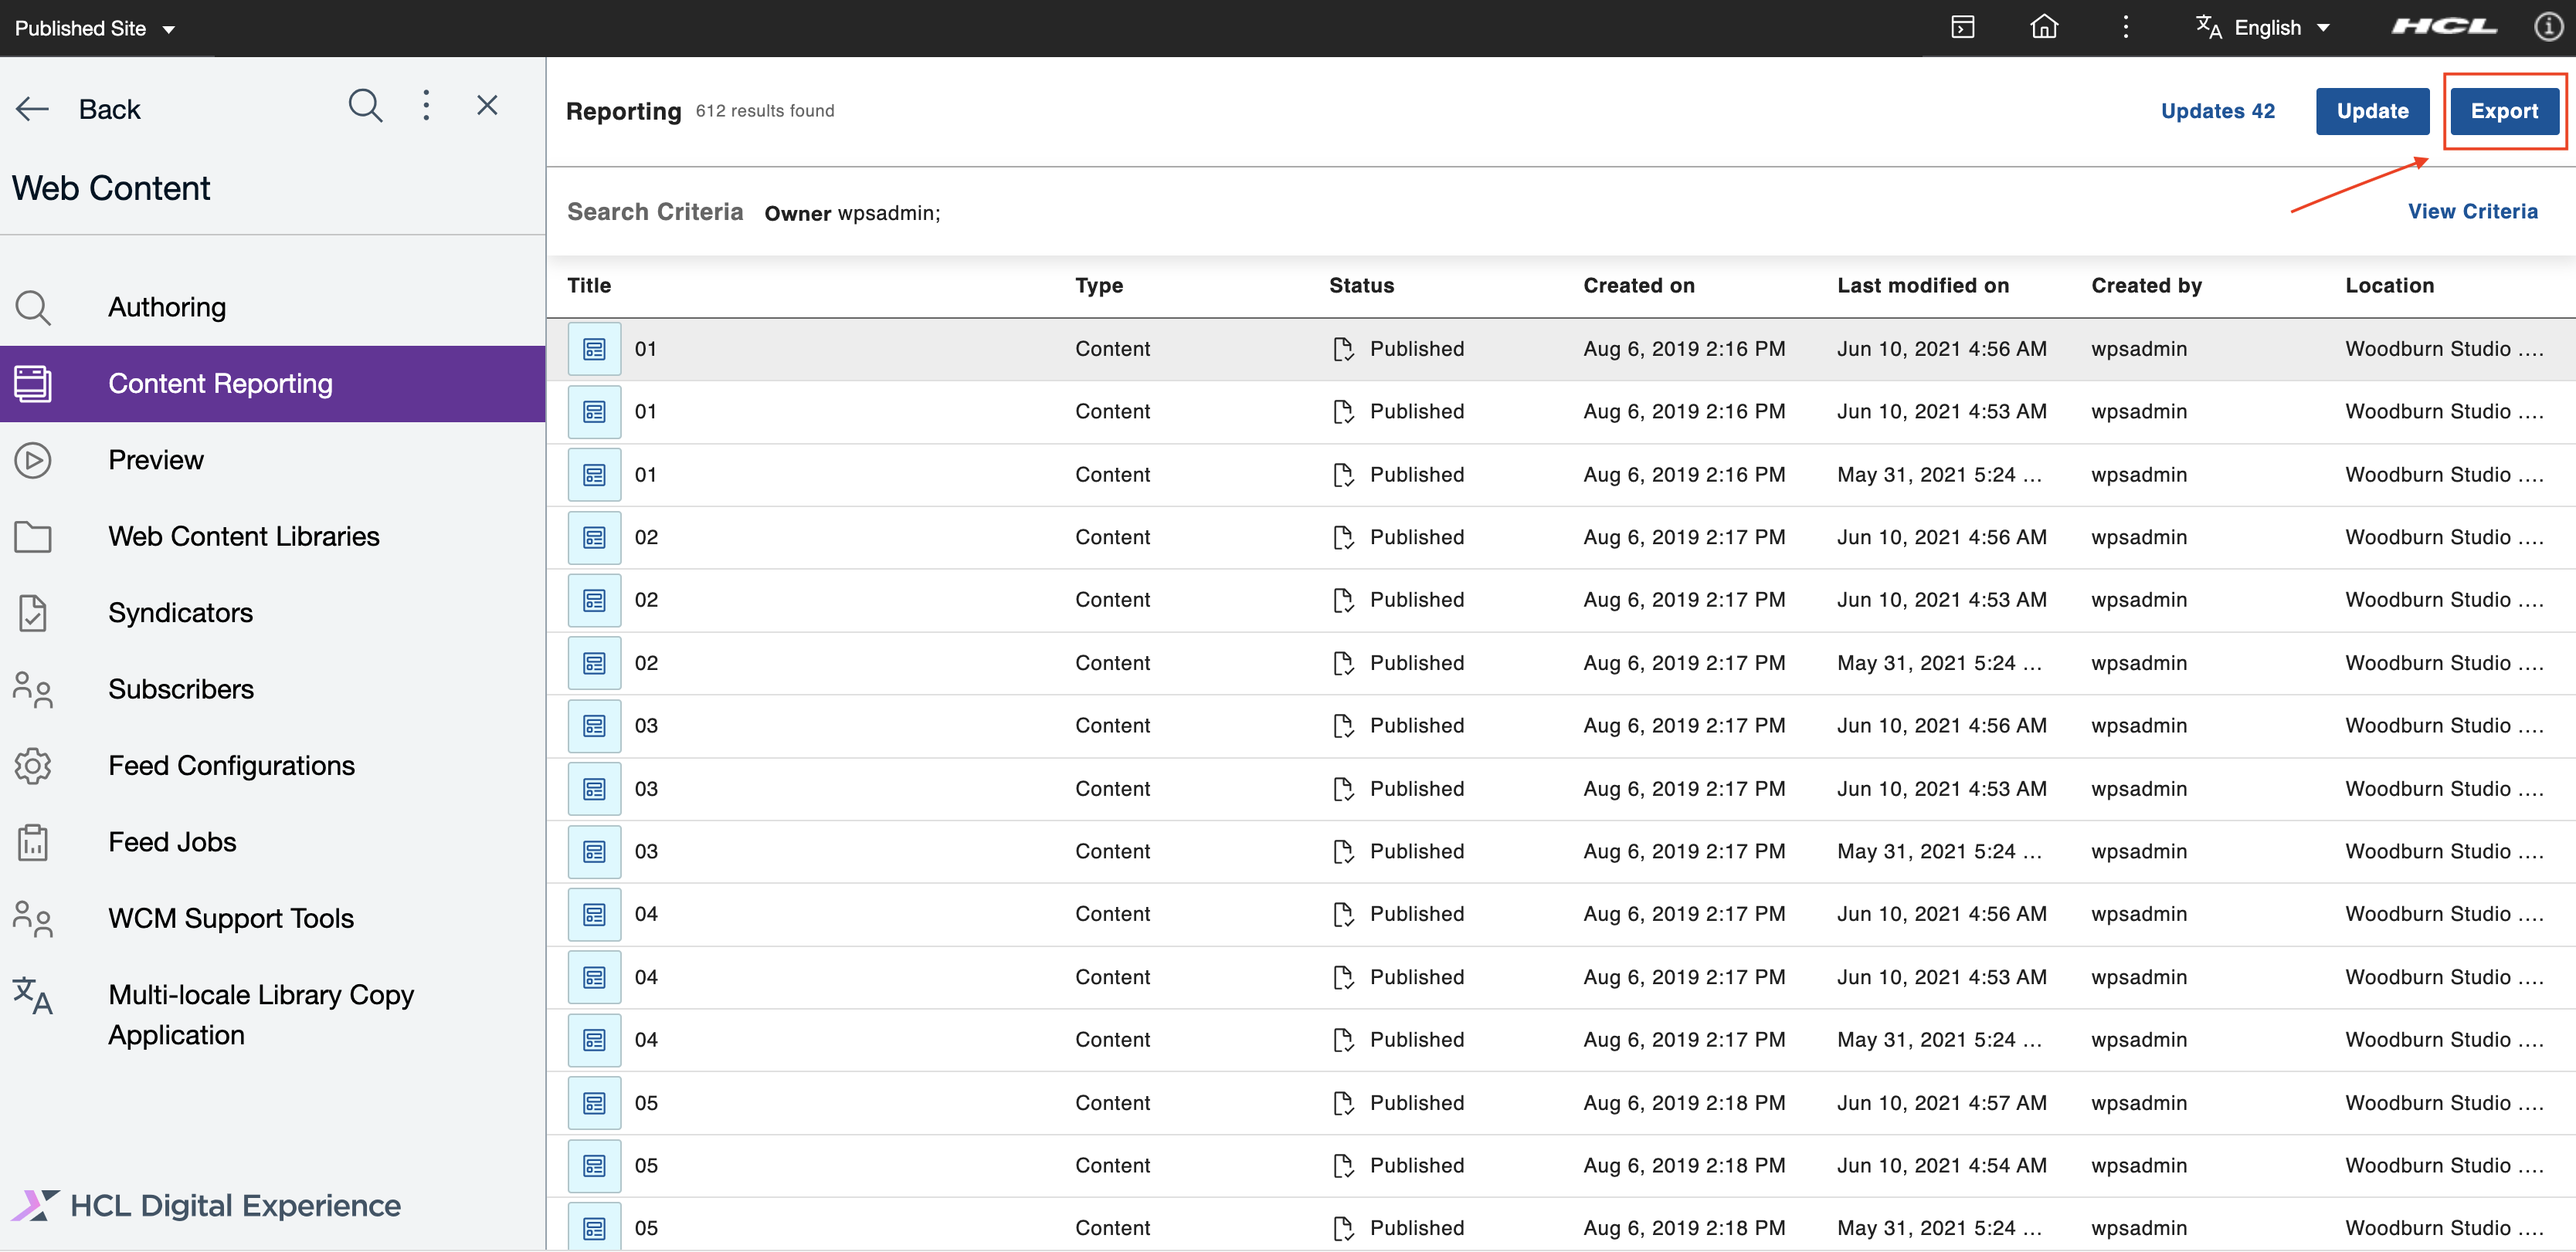
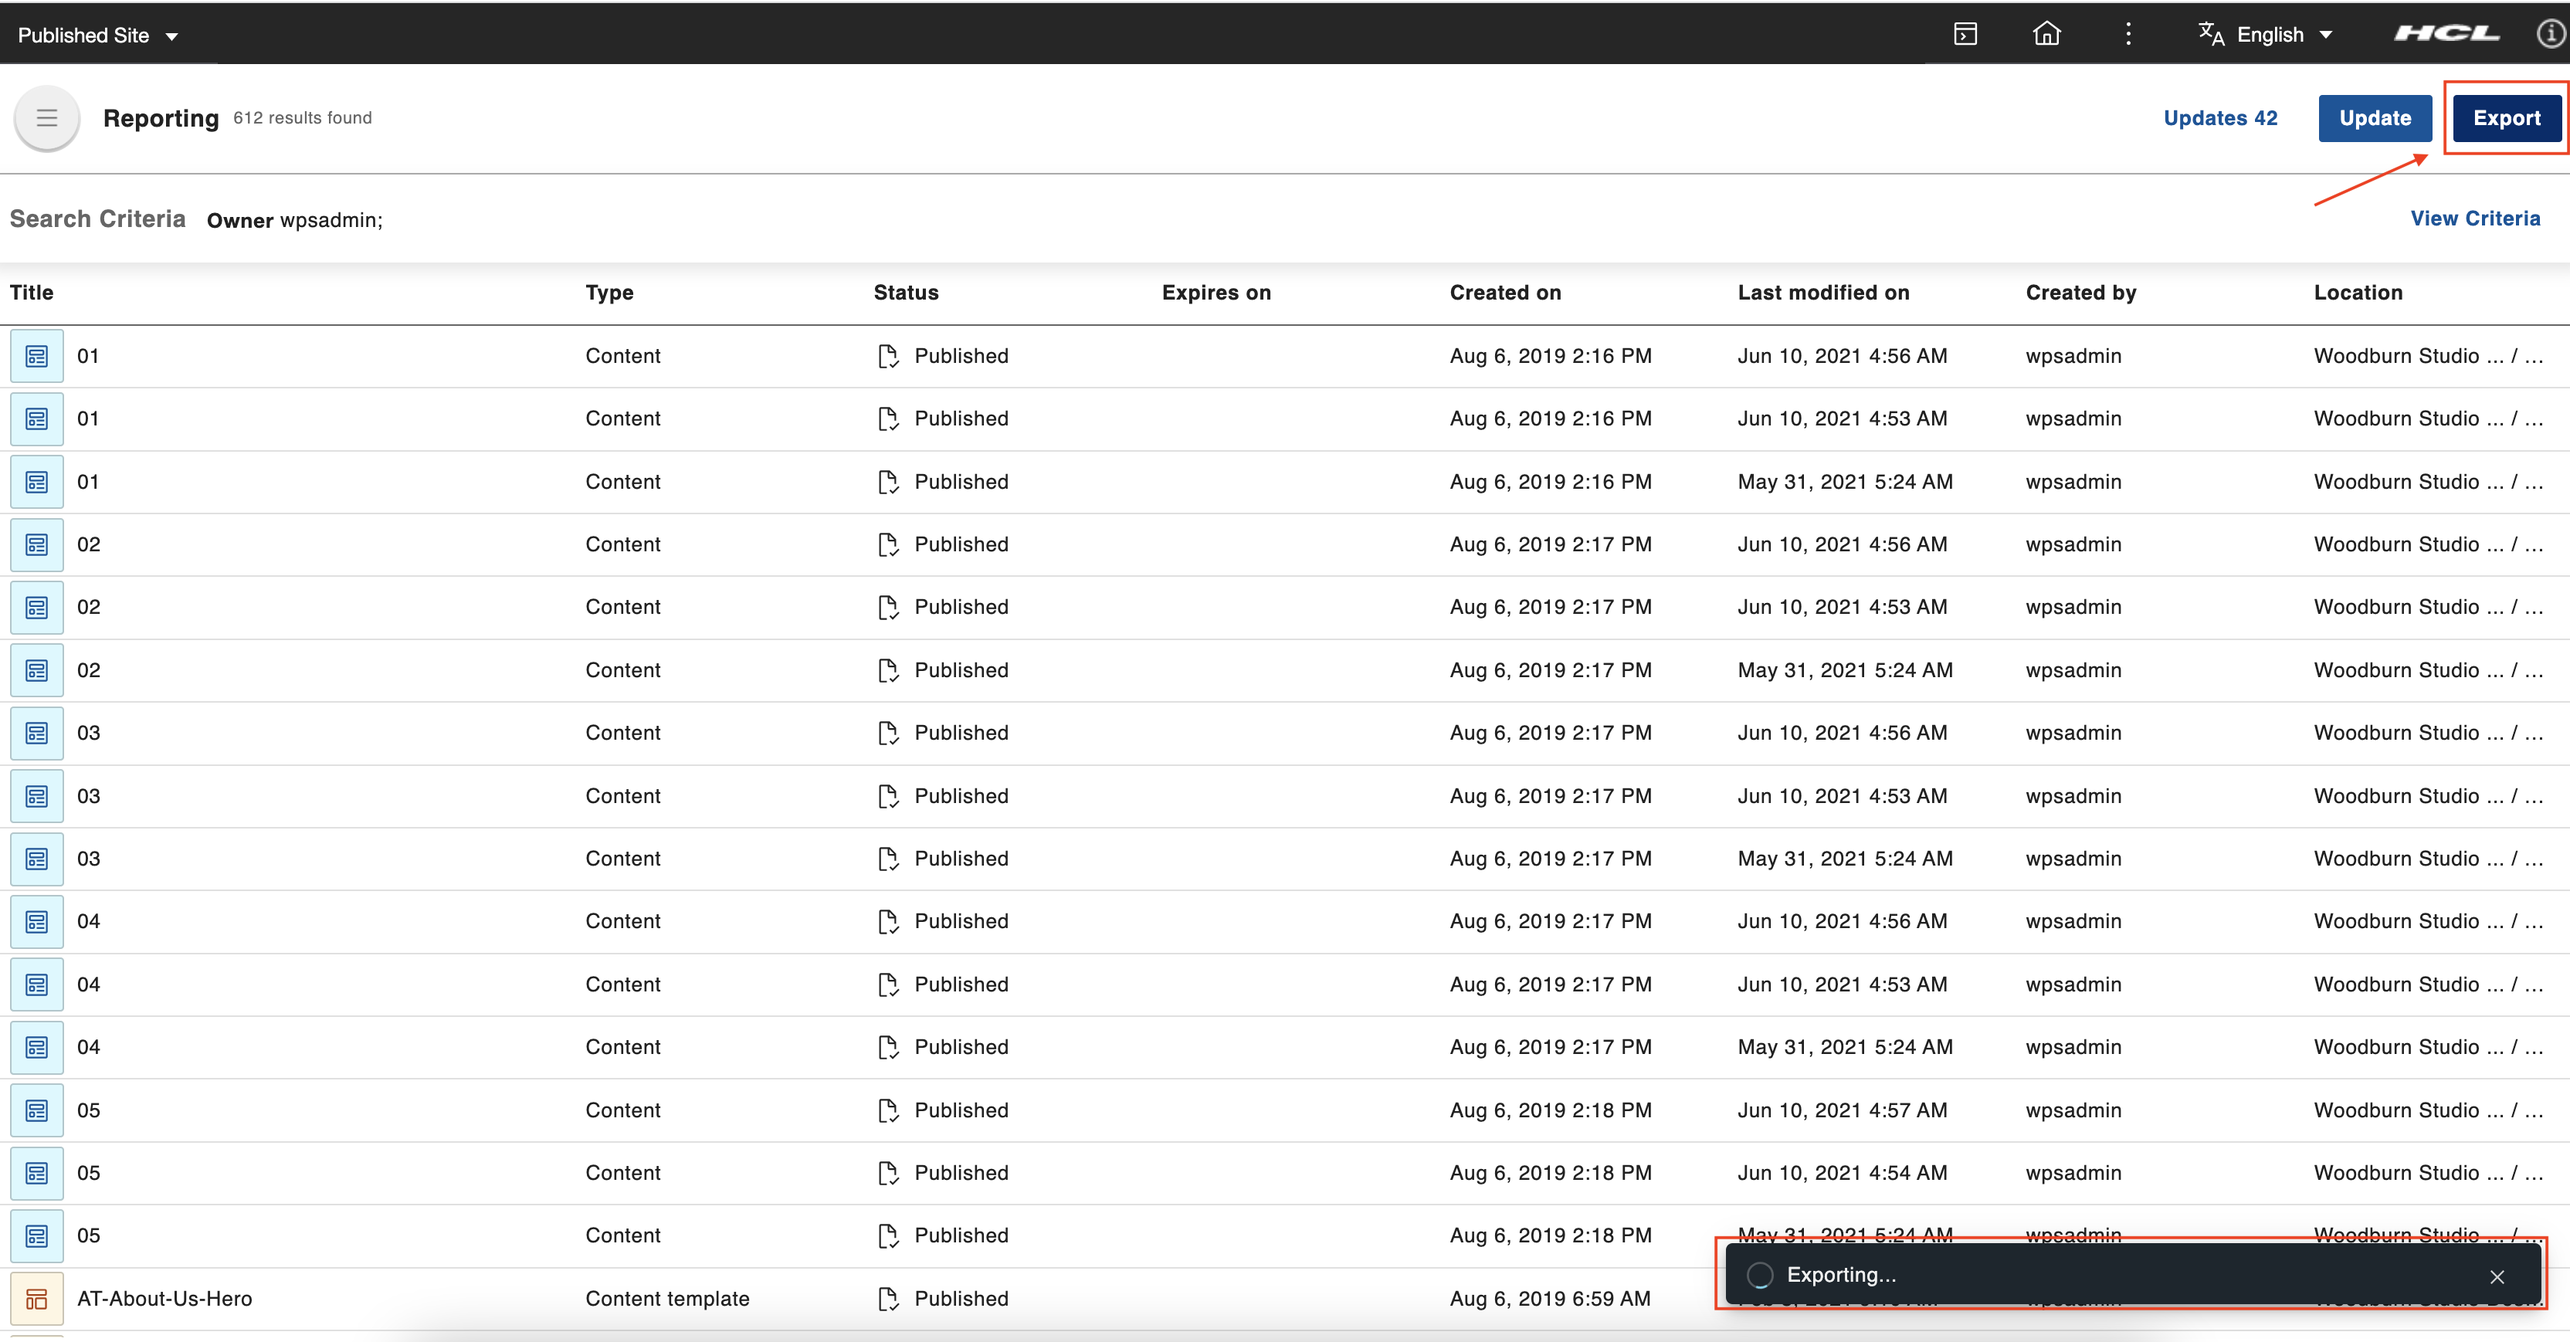
Added limitation of export blob, viewer role and jcr text search

diff --git a/docs/manage_content/wcm_authoring/content_reporting/limitations/index.md b/docs/manage_content/wcm_authoring/content_reporting/limitations/index.md
@@ -2,6 +2,8 @@
 
 The following limitations exist in HCL Content Reporting:
 
+-   Users need Editor access to generate a query.
+-   Users need to run JCR textsearch to use content reporting.
 -   Content Reporting report can be generated only by limited search criteria Expiry date, Authors, Owners, Item type, Words ,and Phrases.
 -   Selecting a subset of items in the report for export or update is not allowed.
 -   No results will be returned if the same date is used as the From and To dates for the Expiry date criteria.
@@ -16,6 +18,7 @@ The following limitations exist in HCL Content Reporting:
 -   Only the expiry date can by updated in bulk at the moment. Items that are not assigned a workflow will be excluded from the updates.
 -   Content Reporting bulk updates for expiry is date-only, and the default time will be 12:00 a.m.
 -   The status of bulk update requests is not tracked in real-time; instead, the status is updated every 10 seconds.
+-   The CSV export function uses Blob storage in the browser, if a very large CSV export is attempted, a user may run into an out of memory conditions with the browser that prevents the large file from successfully downloading.
 
 The following issues to be aware of in HCL Content Reporting:
 

diff --git a/docs/manage_content/wcm_authoring/content_reporting/usage/export_content_report.md b/docs/manage_content/wcm_authoring/content_reporting/usage/export_content_report.md
@@ -16,6 +16,10 @@ Content managers can trigger export report to export generated report.
 
 2. Generate a report on searchitems you want to export. See [Generate Content Report](../usage/generate_content_report.md) for further instructions.
 
-3. When you have already generated a report. The **Export** button will appear in the application header. Click the **Export** button.
+3. When you have already generated a report. The **Export** button will appear in the application header. Click the **Export** button and progress snack bar will be shown in the bottom right.
 
     ![](../../../../assets/HCL_Content_Reporting_Export_Options.png)
+
+3. After successfull exporting user can find and check downloaded csv file.
+
+    ![](../../../../assets/HCL_Content_Reporting_Export_Result.png)
